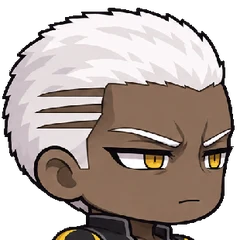
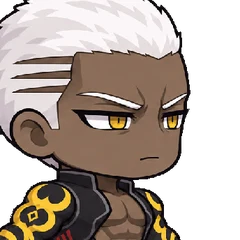
에미야[얼터] 얼굴 크롭을 사용자 값으로 (628, 383, 344)
Claude-Session: https://claude.ai/code/session_018QJiSxyUZ2n4nRxsXBELJ8

diff --git a/dev/faces.py b/dev/faces.py
@@ -4,7 +4,7 @@ import sys, os, re
 from PIL import Image
 from collections import Counter
 ROOT = os.path.join(os.path.dirname(os.path.abspath(__file__)), '..')
-CROPS = {'bb': (655, 475, 290), 'kiara': (660, 445, 290), 'meltryllis': (655, 395, 290), 'passionlip': (655, 480, 290), 'suzuka': (670, 470, 290), 'tamamocat': (685, 455, 290), 'emiya_alter': (598, 350, 310)}
+CROPS = {'bb': (655, 475, 290), 'kiara': (660, 445, 290), 'meltryllis': (655, 395, 290), 'passionlip': (655, 480, 290), 'suzuka': (670, 470, 290), 'tamamocat': (685, 455, 290), 'emiya_alter': (628, 383, 344)}
 P = lambda *a: os.path.join(ROOT, *a)
 
 def dot72(src):
